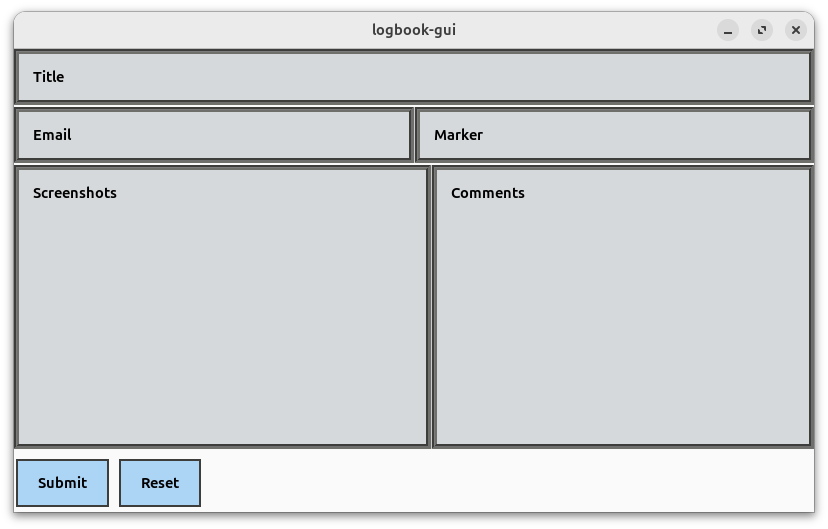
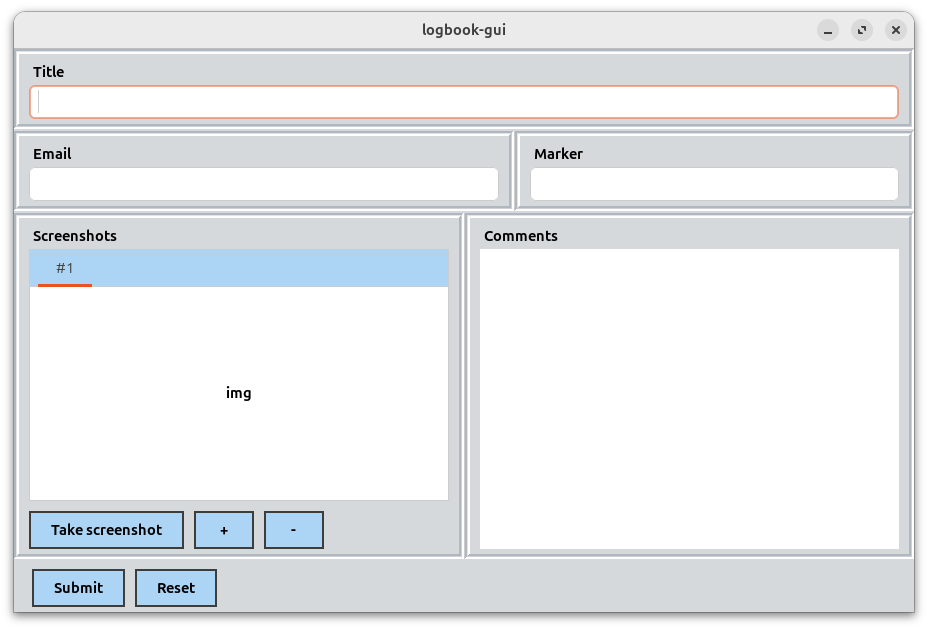
add entry and text view

diff --git a/custom_gtkmm.css b/custom_gtkmm.css
@@ -2,11 +2,11 @@
 	background: rgb(214, 217, 219);
 	color: rgb(0, 0, 0);
 	font-weight: normal;
-	border-color: rgb(61, 61, 60);
+	border-color: rgb(177, 183, 191);
 	border-radius: 0px;
 	border-style: groove;
 	border-width: 5px;
-	padding: 10px;
+	padding: 5px 10px 5px 10px;
 	/*font-family: "Lucida Console", "Courier New", monospace;*/
 	font-weight: bold;
 }
@@ -19,12 +19,27 @@
 	border-radius: 0px;
 	border-style: solid;
 	border-width: 2px;
-	padding: 10px 20px 10px 20px; /* top right bottom left*/
+	padding: 5px 20px 5px 20px; /* top right bottom left*/
 	/*font-family: "Lucida Console", "Courier New", monospace;*/
 	font-weight: bold;
 }
 
 .button-layout:hover {
 	background: rgb(88, 145, 244);
+}
+
+.background {
+	background: rgb(214, 217, 219);
+}
+
+.entry {
+	/*border-radius: 0px;*/
+	font-weight: normal;
+	font-size: 16px;
+	font-family: "Sans Serif";
+}
+
+#notebook-screenshots header {
+	background-color: rgb(172, 212, 245);
 }
 

diff --git a/app.cpp b/app.cpp
@@ -25,11 +25,13 @@ Window::Window() :
 	VBox_body(Gtk::Orientation::VERTICAL, 2),
 	HBox_footer(Gtk::Orientation::HORIZONTAL,10),
 	HPaned1(Gtk::Orientation::HORIZONTAL),
-	HPaned2(Gtk::Orientation::HORIZONTAL)
+	HPaned2(Gtk::Orientation::HORIZONTAL),
+	VBox_screenshots(Gtk::Orientation::VERTICAL,10),
+	HBox_screenshots(Gtk::Orientation::HORIZONTAL,10)
 	//Separator_sidebar(Gtk::Orientation::HORIZONTAL)
 {
 	set_title("logbook-gui");
-	set_default_size(800,500);
+	set_default_size(900,600);
 	set_child(VBox_main);
 	VBox_main.append(VBox_header);
 	VBox_main.append(VBox_body);
@@ -47,17 +49,34 @@ Window::Window() :
 	Frame_email.set_name("frame-email");
 	Frame_email.set_label("Email");
 	Frame_email.add_css_class("frame-layout");
-	HPaned1.set_position(400); // requested size for the first child
+	HPaned1.set_position(500); // requested size for the first child
 	HPaned1.set_end_child(Frame_marker);
 	Frame_marker.set_name("frame-marker");
 	Frame_marker.set_label("Marker");
 	Frame_marker.add_css_class("frame-layout");
 	VBox_body.append(HPaned2);
+		// Frame screenshots
 	HPaned2.set_start_child(Frame_screenshots);
+	HPaned2.set_position(450); 
 	Frame_screenshots.set_name("frame-screenshots");
 	Frame_screenshots.set_label("Screenshots");
 	Frame_screenshots.add_css_class("frame-layout");
 	Frame_screenshots.set_expand();
+	Frame_screenshots.set_child(VBox_screenshots);
+	VBox_screenshots.append(Notebook_screenshots);
+	Notebook_screenshots.set_expand();
+	Notebook_screenshots.set_name("notebook-screenshots");
+	Notebook_screenshots.append_page(*Gtk::make_managed<Gtk::Label>("img", Gtk::Align::CENTER), "#1");
+	VBox_screenshots.append(HBox_screenshots);
+	HBox_screenshots.append(Button_take_screenshot);
+	Button_take_screenshot.set_child(*Gtk::make_managed<Gtk::Label>("Take screenshot", Gtk::Align::CENTER));
+	Button_take_screenshot.add_css_class("button-layout");
+	HBox_screenshots.append(Button_plus);
+	Button_plus.set_child(*Gtk::make_managed<Gtk::Label>("+", Gtk::Align::CENTER));
+	Button_plus.add_css_class("button-layout");
+	HBox_screenshots.append(Button_minus);
+	Button_minus.set_child(*Gtk::make_managed<Gtk::Label>("-", Gtk::Align::CENTER));
+	Button_minus.add_css_class("button-layout");
 	HPaned2.set_end_child(Frame_comments);
 	Frame_comments.set_name("frame-comments");
 	Frame_comments.set_label("Comments");
@@ -65,8 +84,9 @@ Window::Window() :
 	Frame_comments.set_expand();
 	// Footer
 	HBox_footer.append(Button_submit);
+	HBox_footer.add_css_class("background");
 	Button_submit.add_css_class("button-layout");
-	Button_submit.set_margin_start(2);
+	Button_submit.set_margin_start(18);
 	Button_submit.set_margin_top(10);
 	Button_submit.set_margin_bottom(5);
 	Button_submit.set_child(*Gtk::make_managed<Gtk::Label>("Submit", Gtk::Align::CENTER));
@@ -75,6 +95,17 @@ Window::Window() :
 	Button_reset.set_margin_top(10);
 	Button_reset.set_margin_bottom(5);
 	Button_reset.add_css_class("button-layout");
+	// TextBuffer and Entry
+	TextBuffer_comments = Gtk::TextBuffer::create();
+	Frame_comments.set_child(TextView_comments);
+	TextView_comments.set_buffer(TextBuffer_comments);
+	Frame_title.set_child(Entry_title);
+	Frame_email.set_child(Entry_email);
+	Frame_marker.set_child(Entry_marker);
+	Entry_title.add_css_class("entry");
+	Entry_email.add_css_class("entry");
+	Entry_marker.add_css_class("entry");
+	TextView_comments.add_css_class("entry");
 	
 
 	//Button_select_file.set_margin_top(20);
@@ -130,7 +161,7 @@ void Window::on_parsing_error(const Glib::RefPtr<const Gtk::CssSection>& section
 int main (int argc, char * argv[]) {
 	printf("Start logbook-gui...\n");
 
-	auto app = Gtk::Application::create("org.gtkmm.example");
+	auto app = Gtk::Application::create("org.gtkmm.example.logbook");
 
 	return app->make_window_and_run<Window>(argc, argv);
 }

diff --git a/app.h b/app.h
@@ -24,12 +24,19 @@ protected :
 	Gtk::ScrolledWindow ScrolledWindow_comments;
 	//Gtk::Label Label_settings;
 	//Gtk::Separator Separator_sidebar;
-
+	
+	Gtk::Box VBox_screenshots, HBox_screenshots;
+	Gtk::Notebook Notebook_screenshots;
 	Gtk::Button Button_take_screenshot;
 	Gtk::Button Button_plus;
 	Gtk::Button Button_minus;
 	Gtk::Button Button_submit;
 	Gtk::Button Button_reset;
+
+	Gtk::TextView TextView_comments;
+	Glib::RefPtr<Gtk::TextBuffer> TextBuffer_comments;
+	Gtk::Entry Entry_title, Entry_email, Entry_marker;
+
 	
 	// for CSS file	
 	Glib::RefPtr<Gtk::CssProvider> m_refCssProvider; // copied from gtkmm documention
